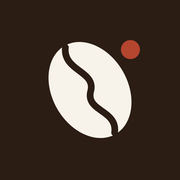
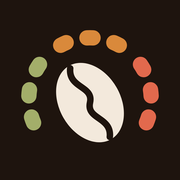
Nova identidade: ícone medidor de torra e logotipo em Fraunces
Claude-Session: https://claude.ai/code/session_01Aq91o1tzKHNvUHqGxZ8nF4

Changed region(s): [[0.1111, 0.1667, 0.8889, 0.8056]]

diff --git a/index.html b/index.html
@@ -15,10 +15,11 @@
 <link rel="manifest" href="manifest.webmanifest">
 <link rel="stylesheet" href="roast.css">
 <link rel="apple-touch-icon" href="icons/apple-touch-icon.png">
-<link rel="icon" type="image/png" sizes="192x192" href="icons/icon-192.png">
+<link rel="icon" type="image/svg+xml" href="icons/icon.svg">
+<link rel="icon" type="image/png" sizes="32x32" href="icons/favicon-32.png">
 <link rel="preconnect" href="https://fonts.googleapis.com">
 <link rel="preconnect" href="https://fonts.gstatic.com" crossorigin>
-<link href="https://fonts.googleapis.com/css2?family=Inter:wght@400;500;600;700&family=Lora:ital,wght@0,500;0,600;1,500&display=swap" rel="stylesheet">
+<link href="https://fonts.googleapis.com/css2?family=Inter:wght@400;500;600;700&family=Lora:ital,wght@0,500;0,600;1,500&family=Fraunces:ital,opsz,wght@0,9..144,600;1,9..144,500&display=swap" rel="stylesheet">
 <style>
 :root {
   --paper:#F7F2EA; --card:#FBF8F3; --ink:#2B1D14; --ink2:#6E5A4B; --ink3:#A08C7C; --line:#E4D9CA;
@@ -73,7 +74,7 @@ input, textarea { font:inherit; color:inherit; }
 .lotbtn { display:flex; align-items:center; gap:5px; font-size:11px; letter-spacing:.14em; text-transform:uppercase; color:var(--ink2); font-weight:600; max-width:100%; }
 .lotbtn span { white-space:nowrap; overflow:hidden; text-overflow:ellipsis; }
 .lotbtn svg { width:12px; height:12px; stroke:var(--ink2); flex:none; }
-.top h1 { font-family:Lora, serif; font-weight:600; font-size:28px; line-height:1.05; letter-spacing:-.01em; margin-top:3px; }
+.top h1 { font-family:Fraunces, Lora, serif; font-weight:600; font-size:29px; line-height:1.05; letter-spacing:-.6px; margin-top:3px; }
 .top h1 em { font-style:italic; font-weight:500; color:var(--crit); }
 .iconbtn { width:38px; height:38px; flex:none; border-radius:19px; display:grid; place-items:center; border:1px solid var(--line); background:var(--card); }
 .iconbtn svg { width:19px; height:19px; stroke:var(--ink); }

diff --git a/sw.js b/sw.js
@@ -1,6 +1,6 @@
 // Torra Certa — cache para funcionar offline
-const CACHE = 'torra-certa-v7';
-const CORE = ['./', './index.html', './roast.js', './roast.css', './manifest.webmanifest', './icons/apple-touch-icon.png', './icons/icon-192.png'];
+const CACHE = 'torra-certa-v8';
+const CORE = ['./', './index.html', './roast.js', './roast.css', './manifest.webmanifest', './icons/apple-touch-icon.png', './icons/icon-192.png', './icons/icon.svg', './icons/favicon-32.png'];
 
 self.addEventListener('install', e => {
   e.waitUntil(caches.open(CACHE).then(c => c.addAll(CORE)).then(() => self.skipWaiting()));
